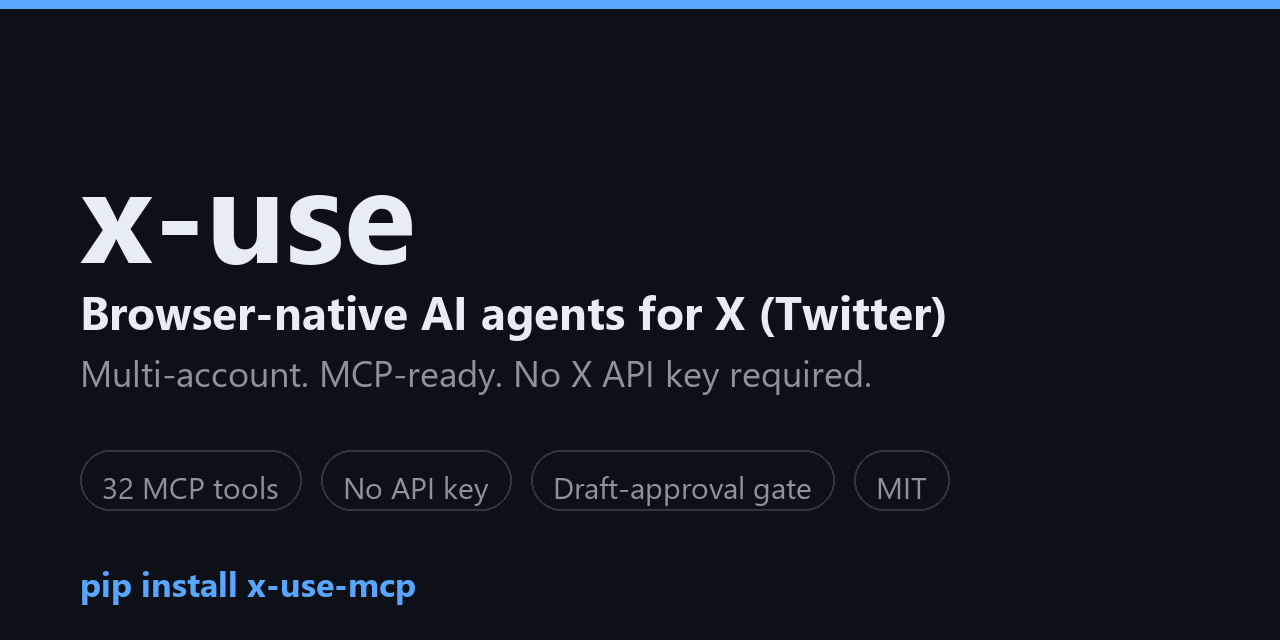
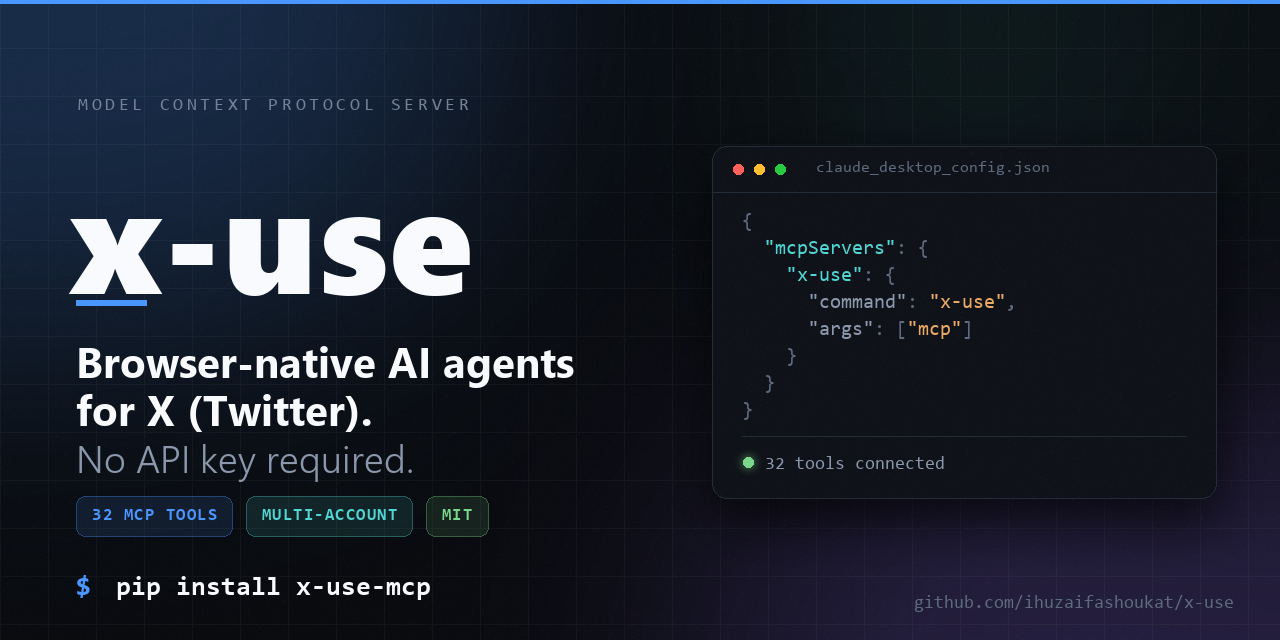
design: rebuild social preview card, add reproducible generator script

diff --git a/scripts/make_social_preview.py b/scripts/make_social_preview.py
@@ -1,0 +1,224 @@
+"""Render assets/social-preview.png, the repo's GitHub and X social card.
+
+Run `python scripts/make_social_preview.py` from the repo root, then upload the
+result under Settings > General > Social preview. GitHub exposes no API for that
+field, so the upload stays manual. This script at least keeps the image
+reproducible instead of leaving an unexplained binary in git.
+
+Needs Pillow, which x-use already depends on.
+"""
+
+import os
+import random
+import sys
+
+from PIL import Image, ImageDraw, ImageFilter, ImageFont
+
+W, H = 1280, 640
+ROOT = os.path.dirname(os.path.dirname(os.path.abspath(__file__)))
+OUT = os.path.join(ROOT, "assets", "social-preview.png")
+
+FONT_DIRS = [
+    r"C:\Windows\Fonts",
+    "/System/Library/Fonts/Supplemental",
+    "/Library/Fonts",
+    "/usr/share/fonts/truetype/dejavu",
+    "/usr/share/fonts/TTF",
+]
+
+# Preferred face first, then per-platform stand-ins.
+FALLBACKS = {
+    "seguibl.ttf": ["Arial Black.ttf", "ariblk.ttf", "DejaVuSans-Bold.ttf"],
+    "segoeuib.ttf": ["Arial Bold.ttf", "arialbd.ttf", "DejaVuSans-Bold.ttf"],
+    "segoeuisl.ttf": ["Arial.ttf", "arial.ttf", "DejaVuSans.ttf"],
+    "consola.ttf": ["Menlo.ttc", "DejaVuSansMono.ttf"],
+    "consolab.ttf": ["Menlo.ttc", "DejaVuSansMono-Bold.ttf"],
+}
+
+BG = (9, 11, 15)
+WHITE = (248, 250, 253)
+MUTED = (139, 152, 172)
+DIM = (94, 106, 126)
+LABEL = (116, 130, 152)
+BLUE = (74, 150, 255)
+VIOLET = (150, 110, 255)
+CYAN = (80, 214, 210)
+GREEN = (122, 214, 138)
+ORANGE = (235, 170, 100)
+PANEL = (15, 18, 25)
+STROKE = (36, 44, 57)
+
+
+def _resolve(name):
+    for candidate in [name] + FALLBACKS.get(name, []):
+        for directory in FONT_DIRS:
+            path = os.path.join(directory, candidate)
+            if os.path.exists(path):
+                return path
+    sys.exit("No usable font found for %s. Install DejaVu or edit FONT_DIRS." % name)
+
+
+def _font(name, size):
+    return ImageFont.truetype(_resolve(name), size)
+
+
+def black(size):
+    return _font("seguibl.ttf", size)
+
+
+def bold(size):
+    return _font("segoeuib.ttf", size)
+
+
+def light(size):
+    return _font("segoeuisl.ttf", size)
+
+
+def mono(size):
+    return _font("consola.ttf", size)
+
+
+def monob(size):
+    return _font("consolab.ttf", size)
+
+
+def layer():
+    return Image.new("RGBA", (W, H), (0, 0, 0, 0))
+
+
+def over(base, lyr, blur=0):
+    """Composite a layer onto the canvas.
+
+    Translucent fills must go through here rather than being drawn straight onto
+    the image: ImageDraw replaces pixels instead of blending them, so an alpha
+    fill drawn directly comes out fully opaque.
+    """
+    if blur:
+        lyr = lyr.filter(ImageFilter.GaussianBlur(blur))
+    return Image.alpha_composite(base, lyr)
+
+
+def tracked(draw, xy, text, font, fill, track):
+    """Draw text with manual letter-spacing, which Pillow has no option for."""
+    x, y = xy
+    for ch in text:
+        draw.text((x, y), ch, font=font, fill=fill)
+        x += draw.textlength(ch, font=font) + track
+    return x
+
+
+def build():
+    img = Image.new("RGBA", (W, H), BG + (255,))
+
+    for (cx, cy), rad, col, alpha, blur in [
+        ((120, 90), 470, BLUE, 60, 165),
+        ((1030, 600), 430, VIOLET, 52, 165),
+        ((980, 130), 300, CYAN, 20, 140),
+    ]:
+        g = layer()
+        ImageDraw.Draw(g).ellipse(
+            [cx - rad, cy - rad * 0.72, cx + rad, cy + rad * 0.72], fill=col + (alpha,)
+        )
+        img = over(img, g, blur)
+
+    grid = layer()
+    gd = ImageDraw.Draw(grid)
+    for x in range(0, W, 48):
+        gd.line([(x, 0), (x, H)], fill=(255, 255, 255, 9))
+    for y in range(0, H, 48):
+        gd.line([(0, y), (W, y)], fill=(255, 255, 255, 9))
+    img = over(img, grid)
+
+    d = ImageDraw.Draw(img)
+    d.rectangle([0, 0, W, 3], fill=BLUE + (255,))
+
+    x0 = 76
+    tracked(d, (x0 + 2, 96), "MODEL CONTEXT PROTOCOL SERVER", mono(18), LABEL + (255,), 3.6)
+    d.text((x0 - 7, 132), "x-use", font=black(150), fill=WHITE + (255,))
+    d.rectangle([x0, 300, x0 + 70, 305], fill=BLUE + (255,))
+    d.text((x0, 332), "Browser-native AI agents", font=bold(42), fill=WHITE + (255,))
+    d.text((x0, 380), "for X (Twitter).", font=bold(42), fill=WHITE + (255,))
+    d.text((x0, 432), "No API key required.", font=light(38), fill=MUTED + (255,))
+
+    chip_box, chip_text = layer(), layer()
+    cbd, ctd = ImageDraw.Draw(chip_box), ImageDraw.Draw(chip_text)
+    cf, track = monob(17), 1.5
+    cx = x0
+    for label, col in [("32 MCP TOOLS", BLUE), ("MULTI-ACCOUNT", CYAN), ("MIT", GREEN)]:
+        width = sum(ctd.textlength(c, font=cf) + track for c in label) - track
+        box = width + 32
+        cbd.rounded_rectangle(
+            [cx, 496, cx + box, 536], radius=9, fill=col + (30,), outline=col + (105,), width=1
+        )
+        tracked(ctd, (cx + 16, 507), label, cf, col + (255,), track)
+        cx += box + 13
+    img = over(over(img, chip_box), chip_text)
+    d = ImageDraw.Draw(img)
+
+    d.text((x0, 574), "$", font=monob(27), fill=BLUE + (255,))
+    d.text((x0 + 25, 574), " pip install x-use-mcp", font=monob(27), fill=WHITE + (255,))
+
+    tx0, ty0, tx1, ty1 = 712, 146, 1216, 498
+
+    shadow = layer()
+    ImageDraw.Draw(shadow).rounded_rectangle(
+        [tx0 + 4, ty0 + 18, tx1 + 4, ty1 + 22], radius=16, fill=(0, 0, 0, 170)
+    )
+    img = over(img, shadow, 24)
+    d = ImageDraw.Draw(img)
+
+    d.rounded_rectangle(
+        [tx0, ty0, tx1, ty1], radius=15, fill=PANEL + (255,), outline=STROKE + (255,), width=1
+    )
+    d.line([(tx0 + 1, ty0 + 46), (tx1 - 1, ty0 + 46)], fill=STROKE + (255,))
+    for i, col in enumerate([(255, 96, 88), (255, 190, 47), (40, 202, 64)]):
+        d.ellipse([tx0 + 21 + i * 21, ty0 + 18, tx0 + 31 + i * 21, ty0 + 28], fill=col + (255,))
+    d.text((tx0 + 104, ty0 + 14), "claude_desktop_config.json", font=mono(16), fill=DIM + (255,))
+
+    rows = [
+        [("{", DIM)],
+        [('  "mcpServers"', CYAN), (": {", DIM)],
+        [('    "x-use"', CYAN), (": {", DIM)],
+        [('      "command"', MUTED), (": ", DIM), ('"x-use"', ORANGE), (",", DIM)],
+        [('      "args"', MUTED), (": [", DIM), ('"mcp"', ORANGE), ("]", DIM)],
+        [("    }", DIM)],
+        [("  }", DIM)],
+        [("}", DIM)],
+    ]
+    mf = mono(20)
+    y = ty0 + 66
+    for row in rows:
+        x = tx0 + 30
+        for text, col in row:
+            d.text((x, y), text, font=mf, fill=col + (255,))
+            x += d.textlength(text, font=mf)
+        y += 27
+
+    d.line([(tx0 + 30, ty1 - 62), (tx1 - 30, ty1 - 62)], fill=STROKE + (255,))
+    halo = layer()
+    ImageDraw.Draw(halo).ellipse([tx0 + 26, ty1 - 46, tx0 + 46, ty1 - 26], fill=GREEN + (110,))
+    img = over(img, halo, 5)
+    d = ImageDraw.Draw(img)
+    d.ellipse([tx0 + 31, ty1 - 41, tx0 + 41, ty1 - 31], fill=GREEN + (255,))
+    d.text((tx0 + 53, ty1 - 43), "32 tools connected", font=mono(18), fill=MUTED + (255,))
+    d.text((tx1 - 302, H - 46), "github.com/ihuzaifashoukat/x-use", font=mono(18), fill=DIM + (255,))
+
+    random.seed(11)
+    noise = layer()
+    px = noise.load()
+    for _ in range(30000):
+        x, y = random.randrange(W), random.randrange(H)
+        v = random.randrange(140, 255)
+        px[x, y] = (v, v, v, random.randrange(3, 10))
+    img = over(img, noise)
+
+    vignette = Image.new("L", (W, H), 0)
+    ImageDraw.Draw(vignette).ellipse([-420, -360, W + 420, H + 360], fill=255)
+    vignette = vignette.filter(ImageFilter.GaussianBlur(200))
+    return Image.composite(img, Image.new("RGBA", (W, H), (0, 0, 0, 255)), vignette)
+
+
+if __name__ == "__main__":
+    os.makedirs(os.path.dirname(OUT), exist_ok=True)
+    build().convert("RGB").save(OUT, quality=96)
+    print("wrote %s (%d bytes)" % (OUT, os.path.getsize(OUT)))
